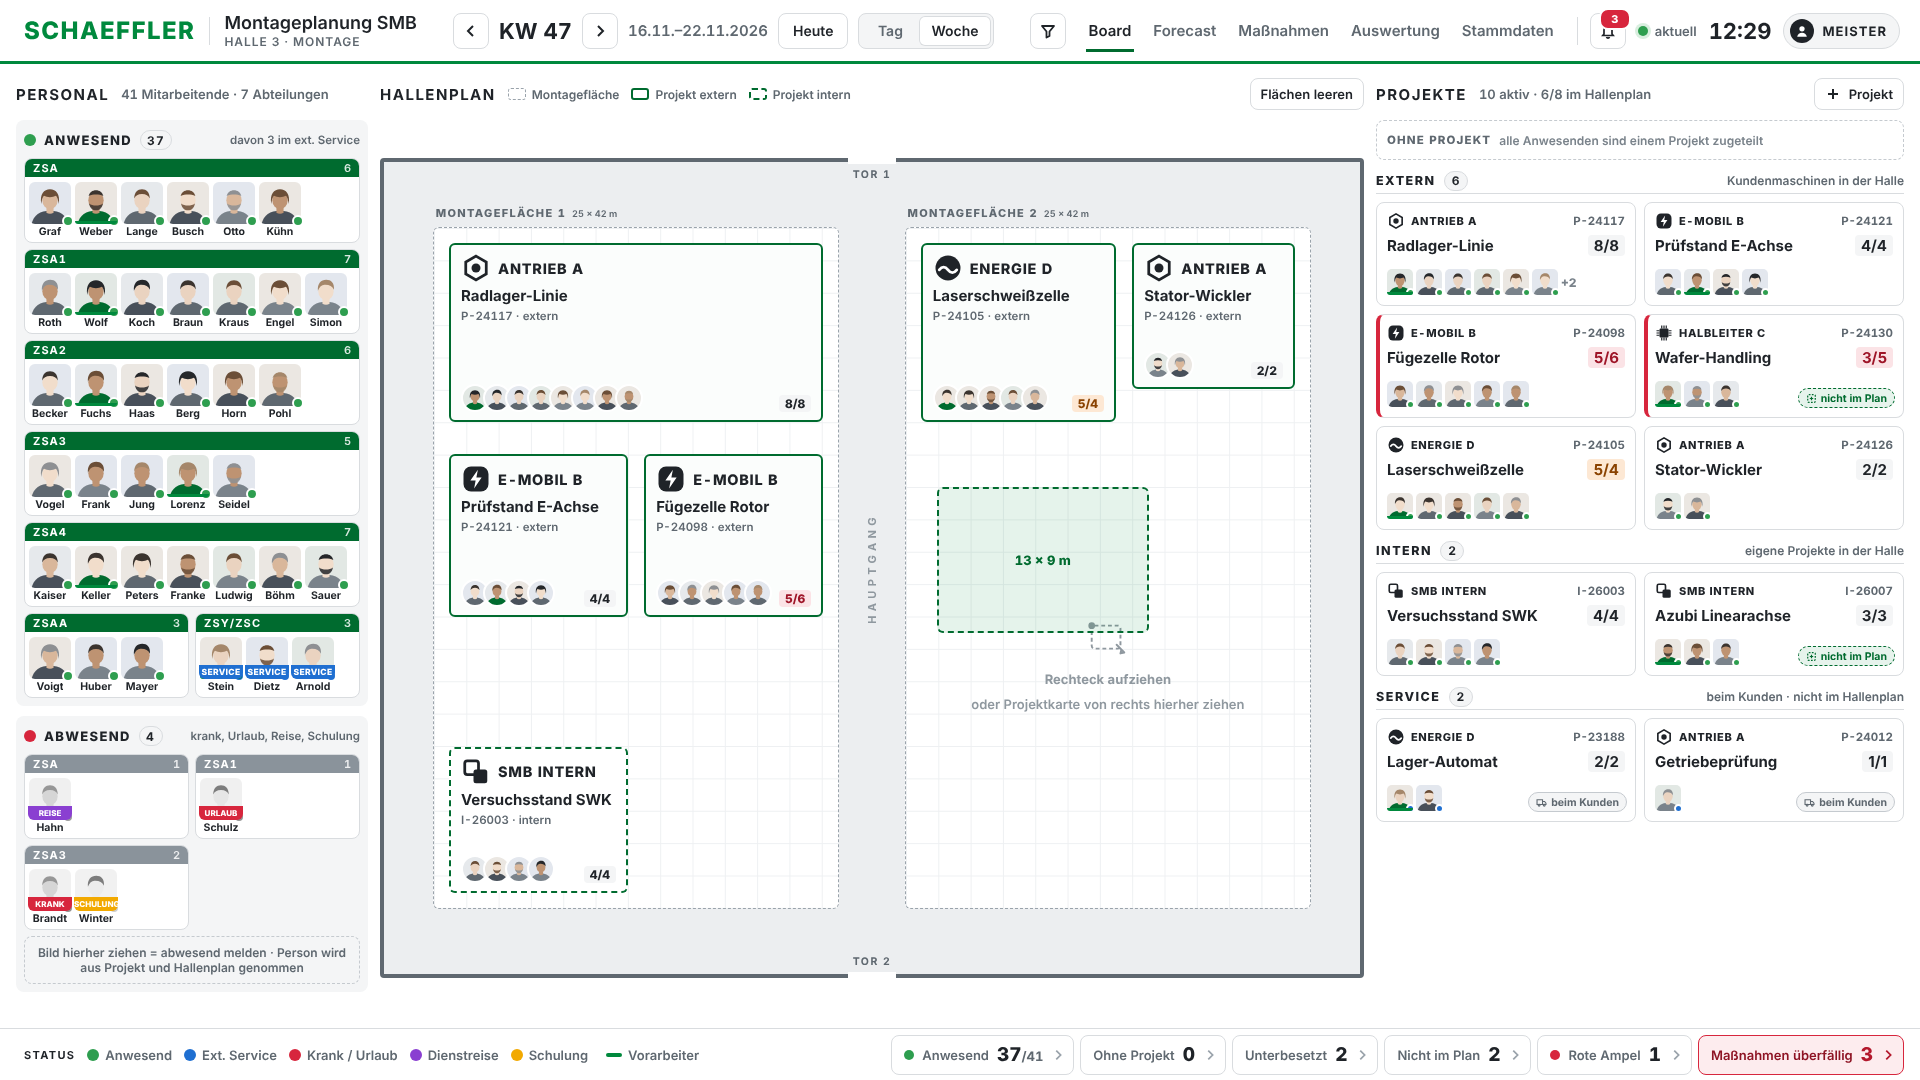
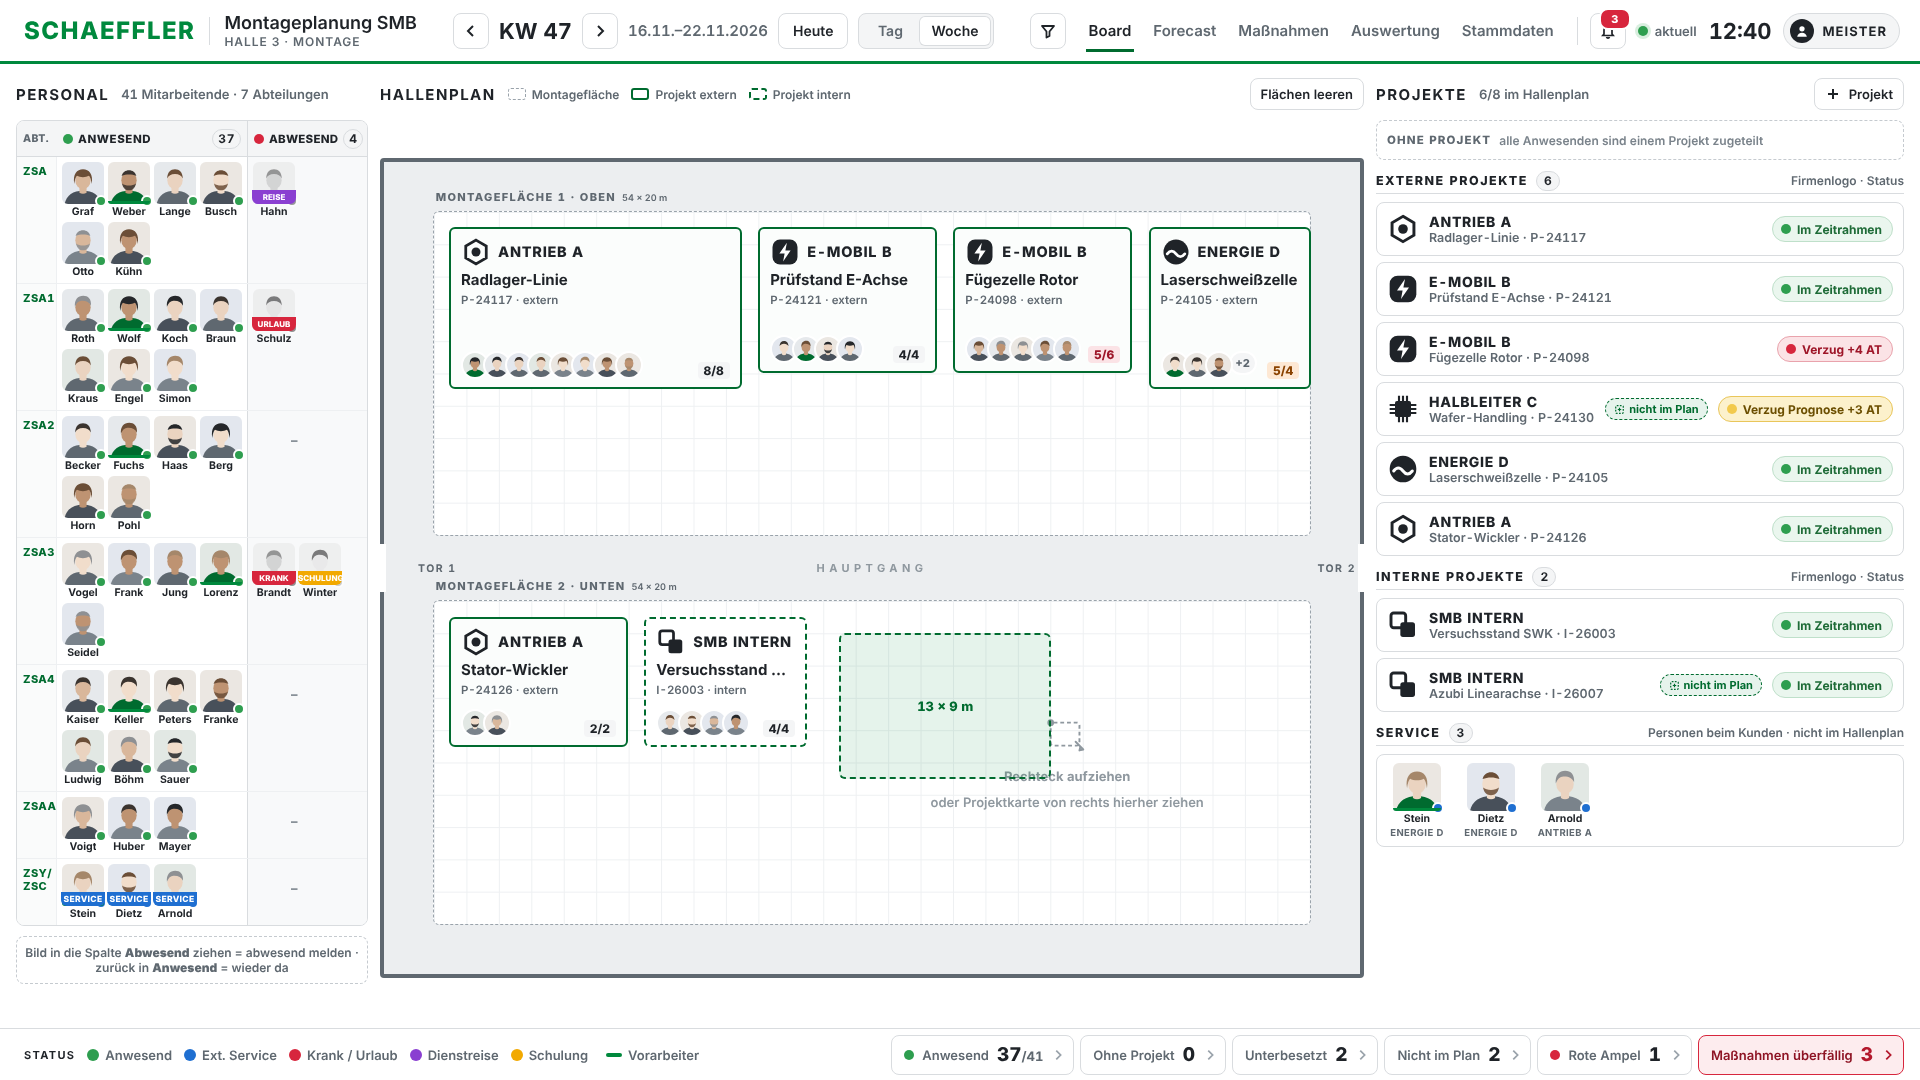
Montageboard: Flächen oben/unten, Personal-Tabelle, Projektliste mit Status
- Hallenplan: Montagefläche 1 oben, Montagefläche 2 unten, Hauptgang dazwischen
- Personal als Tabelle: Abteilung | Anwesend | Abwesend nebeneinander
- Externe und interne Projekte als Liste mit Firmenlogo und Status
  (im Zeitrahmen / Verzug Prognose / Verzug), Service nur mit Personen

Claude-Session: https://claude.ai/code/session_01FF7tkQzNvBLpewGBDK23vb

diff --git a/montageboard/index.html b/montageboard/index.html
@@ -125,6 +125,48 @@ input{font:inherit}
 .dragging{opacity:.35}
 .drop-note{border:1.5px dashed var(--line-2);border-radius:var(--r);padding:8px;font-size:12px;font-weight:600;color:var(--text-2);text-align:center}
 
+/* Tabelle Anwesend | Abwesend */
+.ptab{background:var(--white);border:1px solid var(--line);border-radius:var(--r);overflow:hidden;flex:none}
+.pt-h,.prow{display:grid;grid-template-columns:40px minmax(0,1fr) 120px}
+.pt-h{height:36px;background:var(--surface);border-bottom:1px solid var(--line);font-size:11.5px;font-weight:800;letter-spacing:.05em;text-transform:uppercase}
+.pt-h > span{display:flex;align-items:center;gap:5px;padding:0 6px;min-width:0}
+.pt-h > span:first-child{font-size:10.5px;color:var(--text-2);letter-spacing:.04em}
+.pt-h i{width:10px;height:10px;border-radius:50%;flex:none}
+.pt-h .count{margin-left:auto;min-width:20px;padding:0 5px}
+.pt-h .c-ab{letter-spacing:.02em}
+.pt-h .c-ab,.prow .c-ab{border-left:1px solid var(--line)}
+.prow{border-bottom:1px solid #EEF0F2}
+.prow:last-child{border-bottom:0}
+.prow .dl{padding:8px 0 0 6px;line-height:13px;font-size:11px;font-weight:800;letter-spacing:.04em;color:var(--green-dk);border-right:1px solid #EEF0F2;background:#FAFBFB}
+.prow .c-an,.prow .c-ab{display:flex;flex-wrap:wrap;gap:4px;padding:5px 5px;align-content:flex-start;min-height:62px;min-width:0}
+.prow .c-ab{background:#F8F9FA}
+.prow .none{color:var(--text-3);font-size:13px;font-weight:700;padding:16px 0 0 38px}
+.c-an.drop-ok{background:var(--green-lt)!important;box-shadow:inset 0 0 0 2px var(--green)}
+.c-ab.drop-ok{background:#FDECEE!important;box-shadow:inset 0 0 0 2px var(--st-ab)}
+.ptab.flash{animation:flash 1.4s ease-out 2}
+
+/* Projektliste: Firmenlogo + Status */
+.plist2{display:flex;flex-direction:column;gap:6px}
+.pc2{position:relative;height:54px;padding:0 10px;border:1px solid var(--line);border-radius:var(--r);background:var(--white);display:flex;align-items:center;gap:10px;cursor:grab;min-width:0}
+.pc2 > .mk{width:32px;height:32px;flex:none}
+.pc2 .tx{display:flex;flex-direction:column;min-width:0;flex:1}
+.pc2 .tx b{font-size:14px;font-weight:800;letter-spacing:.05em;white-space:nowrap}
+.pc2 .tx span{font-size:12.5px;font-weight:600;color:var(--text-2);white-space:nowrap;overflow:hidden;text-overflow:ellipsis}
+.pc2 .tag{position:static;flex:none;height:22px;padding:0 8px;border-radius:11px;font-size:11px;font-weight:700;display:inline-flex;align-items:center;gap:4px;white-space:nowrap}
+.pc2.focus{border-color:var(--green);box-shadow:0 0 0 2px var(--green)}
+.pc2.drop-ok{border-color:var(--green);box-shadow:0 0 0 3px var(--green),0 0 16px rgba(0,137,61,.35)}
+.stat{flex:none;height:26px;padding:0 10px 0 8px;border-radius:13px;display:inline-flex;align-items:center;gap:6px;font-size:12px;font-weight:700;white-space:nowrap;border:1px solid}
+.stat i{width:10px;height:10px;border-radius:50%}
+.stat.g{background:#EAF6EE;border-color:#BFE0CA;color:#1E6B37} .stat.g i{background:var(--amp-g)}
+.stat.y{background:#FCF1CC;border-color:#E9C65A;color:#6B4E00} .stat.y i{background:var(--amp-y)}
+.stat.r{background:#FBE3E6;border-color:#E9A3AC;color:#9E1528} .stat.r i{background:var(--amp-r)}
+.svcbox{display:flex;flex-wrap:wrap;gap:10px;padding:8px;border:1px solid var(--line);border-radius:var(--r);min-height:84px}
+.svcbox.drop-ok{border-color:var(--st-ex);box-shadow:inset 0 0 0 2px var(--st-ex)}
+.svcbox .t{font-size:12px;font-weight:600;color:var(--text-3)}
+.pt.svcp{width:64px}
+.pt.svcp .ph-img{width:48px;height:48px}
+.pt .cu{font-size:9.5px;font-weight:700;color:var(--text-2);letter-spacing:.04em;white-space:nowrap}
+
 /* ---------- B3 Hallenplan ---------- */
 .legend-mini{display:flex;gap:12px;font-size:12px;font-weight:600;color:var(--text-2)}
 .legend-mini span{display:inline-flex;align-items:center;gap:6px;white-space:nowrap}
@@ -638,17 +680,17 @@ const ZUTEILUNG = {
 /* HALLE in Metern: Umriss 60 × 50 m mit zwei Montageflächen und Hauptgang */
 const HALLE = {w:60, h:50};
 const FLAECHEN = [
-  {id:'F1', n:'Montagefläche 1', x:3,  y:4, w:25, h:42},
-  {id:'F2', n:'Montagefläche 2', x:32, y:4, w:25, h:42},
+  {id:'F1', n:'Montagefläche 1 · oben',  x:3, y:3,  w:54, h:20},
+  {id:'F2', n:'Montagefläche 2 · unten', x:3, y:27, w:54, h:20},
 ];
 /* PLAN – Projekt → aufgezogenes Rechteck (Meter, Hallenkoordinaten) */
 let PLAN = {
-  'P-24117':{x:4, y:5, w:23,h:11},
-  'P-24121':{x:4, y:18,w:11,h:10},
-  'P-24098':{x:16,y:18,w:11,h:10},
-  'I-26003':{x:4, y:36,w:11,h:9},
-  'P-24105':{x:33,y:5, w:12,h:11},
-  'P-24126':{x:46,y:5, w:10,h:9},
+  'P-24117':{x:4, y:4, w:18,h:10},
+  'P-24121':{x:23,y:4, w:11,h:9},
+  'P-24098':{x:35,y:4, w:11,h:9},
+  'P-24105':{x:47,y:4, w:10,h:10},
+  'P-24126':{x:4, y:28,w:11,h:8},
+  'I-26003':{x:16,y:28,w:10,h:8},
 };
 
 /* Stammdaten-Abruf per Projektnummer (fiktive ERP-Antworten) */
@@ -761,18 +803,13 @@ function renderPool(){
   const fokus = S.focus ? new Set(leute(S.focus).map(p=>p.id)) : null;
   const pt = p => `<div class="pt ${istAnw(p)?'':'abs'} ${S.sel===p.id?'sel':''} ${fokus&&fokus.has(p.id)?'hit':''}" draggable="true" data-pid="${p.id}" data-tip="${personTip(p)}">
       ${foto(p)}${p.s==='ex'?'<span class="svc">SERVICE</span>':''}${istAnw(p)?'':`<span class="why ${STATUS[p.s].c}">${why(p)}</span>`}<span class="cap">${surname(p.n)}</span></div>`;
-  const depts = list => TEAMS.map(t=>{ const m=list.filter(p=>p.t===t); if(!m.length) return '';
-      return `<div class="dept ${m.length>3?'full':''}"><div class="dept-h">${t}<b>${m.length}</b></div><div class="phs">${m.map(pt).join('')}</div></div>`; }).join('');
-  const cnt = s => ab.filter(p=>p.s===s.split(':')[0] && (!s.includes(':')||p.grund===s.split(':')[1])).length;
-  const nEx = an.filter(p=>p.s==='ex').length;
   $('#poolSub').textContent = `${MITARBEITER.length} Mitarbeitende · ${TEAMS.length} Abteilungen`;
-  pool.innerHTML = `
-    <div class="sect an ${fokus?'dim':''}" data-drop="an"><div class="sect-h"><i class="st-an"></i>Anwesend <span class="count">${an.length}</span><span class="hint">davon ${nEx} im ext. Service</span></div>
-      <div class="depts">${depts(an)}</div></div>
-    <div class="sect ab ${fokus?'dim':''}" data-drop="ab"><div class="sect-h"><i class="st-ab"></i>Abwesend <span class="count">${ab.length}</span>
-      <span class="hint" data-tip="Krank ${cnt('ab:Krank')} · Urlaub ${cnt('ab:Urlaub')} · Dienstreise ${cnt('dr')} · Schulung ${cnt('sc')}">krank, Urlaub, Reise, Schulung</span></div>
-      ${ab.length?`<div class="depts">${depts(ab)}</div>`:''}
-      <div class="drop-note">Bild hierher ziehen = abwesend melden · Person wird aus Projekt und Hallenplan genommen</div></div>`;
+  pool.innerHTML = `<div class="ptab ${fokus?'dim':''}">
+    <div class="pt-h"><span>Abt.</span><span class="c-an" data-drop="an"><i class="st-an"></i>Anwesend<b class="count">${an.length}</b></span><span class="c-ab" data-drop="ab"><i class="st-ab"></i>Abwesend<b class="count">${ab.length}</b></span></div>
+    ${TEAMS.map(t=>{ const a=an.filter(p=>p.t===t), b=ab.filter(p=>p.t===t);
+      return `<div class="prow"><span class="dl">${t.replace("/","/<br>")}</span><div class="c-an" data-drop="an">${a.map(pt).join('')}</div><div class="c-ab" data-drop="ab">${b.map(pt).join('')||'<span class="none">–</span>'}</div></div>`; }).join('')}
+    </div>
+    <div class="drop-note">Bild in die Spalte <b>Abwesend</b> ziehen = abwesend melden · zurück in <b>Anwesend</b> = wieder da</div>`;
 }
 
 /* =============================================================================
@@ -783,15 +820,15 @@ const box = r => `left:${pc(r.x,HALLE.w)};top:${pc(r.y,HALLE.h)};width:${pc(r.w,
 function renderMap(){
   const map = $('#map');
   let html = `
-    <span class="gate" style="left:${pc(28.5,60)};width:${pc(3,60)};top:-6px"></span><span class="gate-l" style="left:50%;top:6px">TOR 1</span>
-    <span class="gate" style="left:${pc(28.5,60)};width:${pc(3,60)};bottom:-6px"></span><span class="gate-l" style="left:50%;bottom:6px">TOR 2</span>
-    <div class="aisle" style="${box({x:28,y:4,w:4,h:42})}"><span>HAUPTGANG</span></div>`;
+    <span class="gate" style="top:${pc(23.5,50)};height:${pc(3,50)};left:-6px;width:8px"></span><span class="gate-l" style="left:34px;top:${pc(25,50)};transform:translateY(-50%)">TOR 1</span>
+    <span class="gate" style="top:${pc(23.5,50)};height:${pc(3,50)};right:-6px;width:8px"></span><span class="gate-l" style="right:4px;top:${pc(25,50)};transform:translateY(-50%)">TOR 2</span>
+    <div class="aisle" style="${box({x:3,y:23,w:54,h:4})}"><span style="writing-mode:horizontal-tb;transform:none">HAUPTGANG</span></div>`;
   FLAECHEN.forEach(f=>{
     html += `<div class="fl" data-fl="${f.id}" style="${box(f)};background-image:linear-gradient(to right,#EEF0F2 1px,transparent 1px),linear-gradient(to bottom,#EEF0F2 1px,transparent 1px);background-size:${100/(f.w/2)}% ${100/(f.h/2)}%">
       <span class="fl-l">${f.n}<small>${f.w} × ${f.h} m</small></span></div>`;
   });
   // Hinweis auf größter freier Zone
-  const hz = [{x:33,y:18,w:23,h:26},{x:4,y:29,w:23,h:6},{x:16,y:36,w:11,h:9}].find(z=>frei(z));
+  const hz = [{x:28,y:29,w:28,h:16},{x:4,y:37,w:22,h:9},{x:25,y:15,w:31,h:7}].find(z=>frei(z));
   if(hz) html += `<div class="fl-hint" style="${box(hz)}">${ICO.draw}Rechteck aufziehen<br><span style="font-weight:600">oder Projektkarte von rechts hierher ziehen</span></div>`;
   Object.entries(PLAN).forEach(([nr,r])=>{
     const pr = PR(nr); if(!pr) return;
@@ -816,24 +853,27 @@ function renderProjects(){
   const box2 = $('#proj');
   const ohne = MITARBEITER.filter(p=>istAnw(p) && !ZUTEILUNG[p.id]);
   const nPlan = PROJEKTE.filter(p=>p.kl!=='service' && imPlan(p)).length, nHalle = PROJEKTE.filter(p=>p.kl!=='service').length;
-  $('#projSub').textContent = `${PROJEKTE.length} aktiv · ${nPlan}/${nHalle} im Hallenplan`;
+  $('#projSub').textContent = `${nPlan}/${nHalle} im Hallenplan`;
   let html = `<div class="ohne ${ohne.length?'has':''}" id="ohne" data-drop="ohne"><span class="l">Ohne Projekt</span>
     ${ohne.length ? ohne.map(p=>`<span class="ph-img ph-${p.id}" style="width:28px;height:28px" draggable="true" data-pid="${p.id}" data-tip="${personTip(p)}"><i class="sd ${STATUS[p.s].c}"></i></span>`).join('') : '<span class="t">alle Anwesenden sind einem Projekt zugeteilt</span>'}</div>`;
-  KLASSEN.forEach(([k,l,hint])=>{
+  [['extern','Externe Projekte','Firmenlogo · Status'],['intern','Interne Projekte','Firmenlogo · Status']].forEach(([k,l,hint])=>{
     const list = PROJEKTE.filter(p=>p.kl===k);
-    html += `<div class="sec"><div class="sec-h"><h3>${l}</h3><span class="count">${list.length}</span><span class="hint">${hint}</span></div><div class="cards">${list.map(card).join('')}</div></div>`;
+    html += `<div class="sec"><div class="sec-h"><h3>${l}</h3><span class="count">${list.length}</span><span class="hint">${hint}</span></div><div class="plist2">${list.map(zeile).join('')}</div></div>`;
   });
+  const svc = MITARBEITER.filter(p=>p.s==='ex');
+  html += `<div class="sec"><div class="sec-h"><h3>Service</h3><span class="count">${svc.length}</span><span class="hint">Personen beim Kunden · nicht im Hallenplan</span></div>
+    <div class="svcbox" data-drop="svc">${svc.map(p=>{ const pr=PR(ZUTEILUNG[p.id]);
+      return `<div class="pt svcp ${S.sel===p.id?'sel':''}" draggable="true" data-pid="${p.id}" data-tip="${personTip(p)}">${foto(p)}<span class="cap">${surname(p.n)}</span><span class="cu">${pr?LOGO[pr.c].n:''}</span></div>`; }).join('') || '<span class="t">niemand im externen Service</span>'}</div></div>`;
   box2.innerHTML = html;
 }
-function card(pr){
-  const ppl = leute(pr.nr), n = ppl.length, vis = ppl.length>7 ? 6 : 7;
-  const tag = pr.kl==='service' ? `<span class="tag kunde">${ICO.truck}beim Kunden</span>`
-            : imPlan(pr) ? '' : `<span class="tag plan" data-tip="Noch keine Fläche im Hallenplan – Karte auf eine Montagefläche ziehen oder Rechteck aufziehen">${ICO.pin}nicht im Plan</span>`;
-  return `<article class="pc ${n<pr.soll?'under':''} ${S.focus===pr.nr?'focus':''}" data-nr="${pr.nr}" draggable="${pr.kl!=='service'}" data-tip="${pr.nr} ${pr.nm} · Phase ${pr.cur} · bis ${pr.to}${pr.kl!=='service'?'\nKarte auf eine Montagefläche ziehen = platzieren':''}">
-    <div class="co">${mk(pr.c)}<b>${LOGO[pr.c].n}</b><span class="nr">${pr.nr}</span></div>
-    <div class="pn"><span>${pr.nm}</span><span class="cnt ${n<pr.soll?'under':n>pr.soll?'over':''}" data-tip="Personal Ist ${n} / Soll ${pr.soll}">${n}/${pr.soll}</span></div>
-    <div class="ppl">${ppl.slice(0,vis).map(p=>foto(p).replace('class="ph-img','draggable="true" data-pid="'+p.id+'" data-tip="'+personTip(p)+'" class="ph-img')).join('') || '<span class="none">keine Person zugeteilt</span>'}${ppl.length>vis?`<span class="none" style="font-weight:800">+${ppl.length-vis}</span>`:''}</div>
-    ${tag}</article>`;
+function zeile(pr){
+  const f = forecast(pr), d = f.amp[2];
+  const st = d==='g' ? 'Im Zeitrahmen' : d==='y' ? `Verzug Prognose +${pr.verzug.at} AT` : `Verzug +${pr.verzug.at} AT`;
+  return `<article class="pc2 ${S.focus===pr.nr?'focus':''}" data-nr="${pr.nr}" draggable="true" data-tip="${pr.nr} ${pr.nm} · Phase ${pr.cur} · bis ${pr.to}\nPersonal Ist ${ist(pr)} / Soll ${pr.soll}${imPlan(pr)?'':'\nNoch nicht im Hallenplan – auf eine Montagefläche ziehen'}">
+    <span class="mk">${LOGO[pr.c].svg}</span>
+    <div class="tx"><b>${LOGO[pr.c].n}</b><span>${pr.nm} · ${pr.nr}</span></div>
+    ${imPlan(pr)?'':`<span class="tag plan">${ICO.pin}nicht im Plan</span>`}
+    <span class="stat ${d}"><i></i>${st}</span></article>`;
 }
 
 /* =============================================================================
@@ -1245,7 +1285,7 @@ map.addEventListener('pointerup', e=>{
 let drag = null;   // {pid} oder {nr}
 const stage = $('#stage');
 stage.addEventListener('dragstart', e=>{
-  const p = e.target.closest && e.target.closest('[data-pid]'), c = e.target.closest && e.target.closest('.pc[draggable="true"]');
+  const p = e.target.closest && e.target.closest('[data-pid]'), c = e.target.closest && e.target.closest('.pc2');
   if(p){ drag = {pid:p.dataset.pid}; p.classList.add('dragging'); }
   else if(c){ drag = {nr:c.dataset.nr}; c.classList.add('dragging'); }
   else return;
@@ -1256,7 +1296,7 @@ stage.addEventListener('dragend', ()=>{ drag=null; clearDrop(); document.querySe
 function ziel(e){
   if(!drag) return null;
   if(drag.pid){
-    const t = e.target.closest('.pr,.pc,[data-drop]'); return t;
+    const t = e.target.closest('.pr,.pc2,[data-drop]'); return t;
   }
   return e.target.closest('.fl,.pr');
 }
@@ -1269,11 +1309,13 @@ stage.addEventListener('drop', e=>{
     const p = byId[d.pid];
     if(t.dataset.nr) return zuteilen(d.pid, t.dataset.nr);
     if(t.dataset.drop==='ab'){ if(istAnw(p)) openPop('person', t.getBoundingClientRect(), {pid:d.pid, pending:['ab','Krank']}); return; }
-    if(t.dataset.drop==='an'||t.dataset.drop==='ohne'){ if(!istAnw(p)||ZUTEILUNG[d.pid]) loesen(d.pid); return; }
+    if(t.dataset.drop==='svc'){ openPop('person', t.getBoundingClientRect(), {pid:d.pid, pending:['ex',null]}); return; }
+    if(t.dataset.drop==='an'){ if(!istAnw(p)) loesen(d.pid); return; }
+    if(t.dataset.drop==='ohne'){ if(!istAnw(p)||ZUTEILUNG[d.pid]) loesen(d.pid); return; }
     return;
   }
   // Projektkarte auf Fläche → Standardrechteck an der Abwurfstelle
-  const pr = PR(d.nr), m = toM(e), f = FLAECHEN.find(x=>m.x>=x.x&&m.x<=x.x+x.w) || FLAECHEN[0];
+  const pr = PR(d.nr), m = toM(e), f = FLAECHEN.find(x=>m.y>=x.y&&m.y<=x.y+x.h) || (m.y<25?FLAECHEN[0]:FLAECHEN[1]);
   const sz = PLAN[d.nr] ? {w:PLAN[d.nr].w,h:PLAN[d.nr].h} : {w:Math.max(8,Math.min(14,pr.soll*2+4)), h:8};
   const r = freiePos(f, sz.w, sz.h, m.x, m.y, d.nr);
   if(!r){ toast('Kein freier Platz in dieser Größe – Rechteck selbst aufziehen'); return; }
@@ -1324,7 +1366,7 @@ stage.addEventListener('click', e=>{
     const r = person.getBoundingClientRect(); renderPool(); renderMap(); renderProjects();
     openPop('person', r, {pid}); return;
   }
-  const pcard = T.closest('.pc');
+  const pcard = T.closest('.pc2');
   if(pcard){
     if(S.sel){ zuteilen(S.sel, pcard.dataset.nr); return; }
     S.focus = S.focus===pcard.dataset.nr ? null : pcard.dataset.nr; S.selRect = PLAN[S.focus] ? S.focus : null; renderAll(); return;
@@ -1333,16 +1375,16 @@ stage.addEventListener('click', e=>{
   if(area && S.sel && S.pop && S.pop.kind==='person' && istAnw(byId[S.sel])){ S.pop.pending=['ab','Krank']; renderPop(); return; }
   if(S.pop || S.sel || S.focus){ S.sel=null; S.focus=null; S.selRect=null; closePop(); renderAll(); }
 });
-stage.addEventListener('dblclick', e=>{ const c = e.target.closest('.pc,.pr'); if(c){ S.hl=c.dataset.nr; setView('forecast'); } });
+stage.addEventListener('dblclick', e=>{ const c = e.target.closest('.pc2,.pr'); if(c){ S.hl=c.dataset.nr; setView('forecast'); } });
 $('#undo').addEventListener('click', ()=>{ undo(); $('#snack').classList.add('hide'); });
 
 function kpiClick(k){
   if(S.view!=='board') setView('board');
   const flash = el=>{ if(!el) return; el.classList.remove('flash'); void el.offsetWidth; el.classList.add('flash'); };
-  if(k==='an') flash($('.sect.ab'));
+  if(k==='an') flash($('.ptab'));
   if(k==='ohne') flash($('#ohne'));
-  if(k==='under') document.querySelectorAll('.pc.under').forEach(flash);
-  if(k==='plan') document.querySelectorAll('.pc .tag.plan').forEach(t=>flash(t.closest('.pc')));
+  if(k==='under') document.querySelectorAll('.pr .cnt.under').forEach(c=>flash(c.closest('.pr')));
+  if(k==='plan') document.querySelectorAll('.pc2 .tag.plan').forEach(t=>flash(t.closest('.pc2')));
   if(k==='rot'){ S.hl = (PROJEKTE.find(p=>forecast(p).amp.includes('r'))||{}).nr; setView('forecast'); }
   if(k==='mn') toast('3 Maßnahmen überfällig – Ansicht „Maßnahmen“ folgt');
 }
